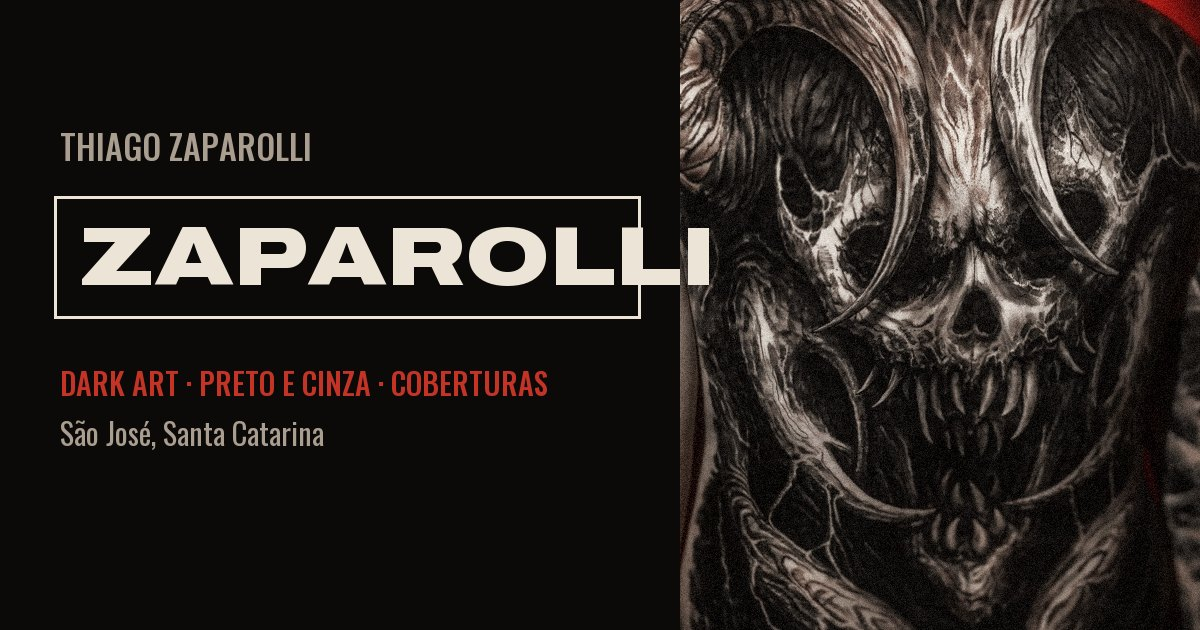
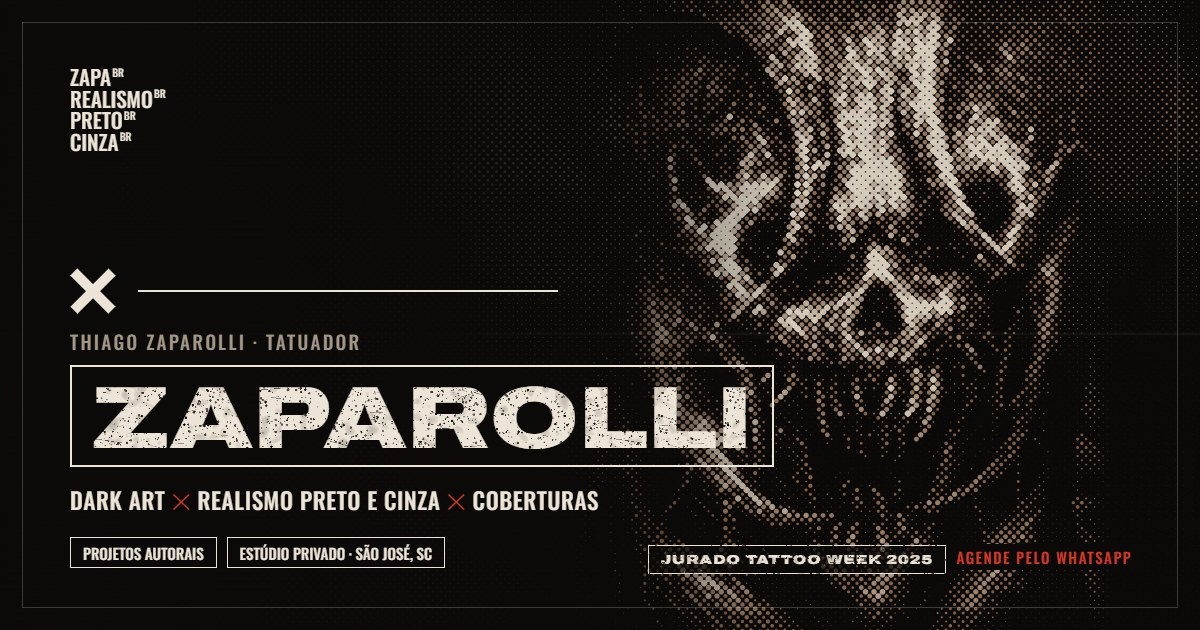
Prévia do link (og.jpg) premium com o meio-tom e a tipografia do site; metatags com URL absoluta

diff --git a/index.html b/index.html
@@ -10,9 +10,17 @@
 <meta property="og:type" content="website">
 <meta property="og:locale" content="pt_BR">
 <meta property="og:title" content="Zaparolli Tattoo · Dark art e realismo preto e cinza">
-<meta property="og:description" content="Projetos autorais, coberturas e fechamentos em estúdio privado em São José, SC. Orçamento pelo WhatsApp.">
-<meta property="og:image" content="og.jpg">
+<meta property="og:description" content="Jurado da Tattoo Week 2025. Dark art e realismo preto e cinza autorais, coberturas e fechamentos em estúdio privado em São José, SC. Agende pelo WhatsApp.">
+<meta property="og:image" content="https://azeugral.github.io/zaparolli-tattoo/og.jpg">
+<meta property="og:image:secure_url" content="https://azeugral.github.io/zaparolli-tattoo/og.jpg">
+<meta property="og:image:type" content="image/jpeg">
+<meta property="og:image:width" content="1200">
+<meta property="og:image:height" content="630">
+<meta property="og:image:alt" content="Zaparolli Tattoo: dark art, realismo preto e cinza e coberturas em São José, SC">
+<meta property="og:site_name" content="Zaparolli Tattoo">
+<meta property="og:url" content="https://azeugral.github.io/zaparolli-tattoo/">
 <meta name="twitter:card" content="summary_large_image">
+<meta name="twitter:image" content="https://azeugral.github.io/zaparolli-tattoo/og.jpg">
 <link rel="icon" href="favicon.ico" sizes="any">
 <link rel="icon" href="favicon-32.png" type="image/png">
 <link rel="apple-touch-icon" href="apple-touch-icon.png">

diff --git a/portfolio.html b/portfolio.html
@@ -10,8 +10,16 @@
 <meta property="og:type" content="website">
 <meta property="og:locale" content="pt_BR">
 <meta property="og:title" content="Portfólio · Zaparolli Tattoo">
-<meta property="og:image" content="og.jpg">
+<meta property="og:image" content="https://azeugral.github.io/zaparolli-tattoo/og.jpg">
+<meta property="og:image:secure_url" content="https://azeugral.github.io/zaparolli-tattoo/og.jpg">
+<meta property="og:image:type" content="image/jpeg">
+<meta property="og:image:width" content="1200">
+<meta property="og:image:height" content="630">
+<meta property="og:image:alt" content="Zaparolli Tattoo: dark art, realismo preto e cinza e coberturas em São José, SC">
+<meta property="og:site_name" content="Zaparolli Tattoo">
+<meta property="og:url" content="https://azeugral.github.io/zaparolli-tattoo/portfolio.html">
 <meta name="twitter:card" content="summary_large_image">
+<meta name="twitter:image" content="https://azeugral.github.io/zaparolli-tattoo/og.jpg">
 <link rel="icon" href="favicon.ico" sizes="any">
 <link rel="icon" href="favicon-32.png" type="image/png">
 <link rel="apple-touch-icon" href="apple-touch-icon.png">

diff --git a/tools/gerar_og.py b/tools/gerar_og.py
@@ -1,0 +1,87 @@
+"""Gera og.jpg (1200x630), a imagem que aparece quando o link é compartilhado.
+Monta uma página com o meio-tom do hero (assets/js/meio-tom.js) e a tipografia do site
+e fotografa com Playwright + Brave. Precisa de um servidor local na pasta do projeto:
+    python -m http.server 8811   (rodado em PROJETOS LRGZ/Zaparolli Tattoo)
+Uso: python tools/gerar_og.py"""
+import os
+from playwright.sync_api import sync_playwright
+
+AQUI = os.path.dirname(os.path.abspath(__file__))
+SITE = os.path.dirname(AQUI)
+BRAVE = r'C:\Program Files\BraveSoftware\Brave-Browser\Application\brave.exe'
+BASE = 'http://localhost:8811/site/'
+
+HTML = """<!doctype html><html><head><meta charset="utf-8">
+<base href="%s">
+<link rel="stylesheet" href="https://fonts.googleapis.com/css2?family=Archivo:wdth,wght@62..125,100..900&family=Oswald:wght@500&display=swap">
+<style>
+:root { --carvao:#0c0a09; --osso:#ece4d6; --cinza:#a39888; --sangue:#cf3a24; }
+* { box-sizing:border-box; margin:0; }
+body { width:1200px; height:630px; background:var(--carvao); overflow:hidden; position:relative; font-family:'Archivo'; }
+canvas { position:absolute; inset:0; width:1200px; height:630px; }
+.veu { position:absolute; inset:0; background:linear-gradient(90deg, rgba(12,10,9,.96) 0%%, rgba(12,10,9,.85) 38%%, rgba(12,10,9,0) 66%%); }
+.moldura { position:absolute; inset:22px; border:1px solid rgba(236,228,214,.22); }
+.conteudo { position:absolute; left:70px; top:66px; bottom:62px; width:700px; display:flex; flex-direction:column; }
+.pilha { font:500 21px/1.03 'Oswald'; text-transform:uppercase; color:var(--osso); }
+.pilha sup { font-size:.5em; margin-left:.12em; vertical-align:.9em; }
+.linha-x { display:flex; align-items:center; gap:22px; margin:auto 0 18px; }
+.xis { position:relative; width:46px; height:46px; }
+.xis::before,.xis::after { content:''; position:absolute; left:50%%; top:50%%; width:118%%; height:21%%; background:var(--osso); transform:translate(-50%%,-50%%) rotate(45deg); }
+.xis::after { transform:translate(-50%%,-50%%) rotate(-45deg); }
+.fio { height:2px; width:420px; background:var(--osso); }
+.sobre { font:500 19px/1 'Oswald'; letter-spacing:.12em; text-transform:uppercase; color:var(--cinza); margin-bottom:14px; }
+.caixa { position:relative; display:inline-block; align-self:flex-start; padding:10px 22px 4px; font-stretch:125%%; font-weight:900; font-size:88px; line-height:1; text-transform:uppercase; color:var(--osso); }
+.caixa::before { content:''; position:absolute; inset:0; border:2.5px solid var(--osso); }
+.desgaste { -webkit-mask-image:url(assets/img/desgaste.png); mask-image:url(assets/img/desgaste.png); -webkit-mask-size:520px auto; mask-size:520px auto; }
+.lema { margin-top:20px; font:500 23px/1.2 'Oswald'; letter-spacing:.03em; text-transform:uppercase; color:var(--osso); }
+.lema b { color:var(--sangue); font-weight:500; }
+.tags { display:flex; gap:10px; margin-top:22px; }
+.tags span { border:1.5px solid var(--osso); padding:7px 12px 6px; font:500 15px/1.1 'Oswald'; text-transform:uppercase; color:var(--osso); background:rgba(12,10,9,.5); }
+.selo { position:absolute; right:58px; bottom:56px; text-align:right; }
+.selo .t { display:inline-block; border:1.5px solid var(--osso); padding:7px 12px 6px; font-stretch:125%%; font-weight:900; font-size:13px; letter-spacing:.09em; text-transform:uppercase; color:var(--osso); background:rgba(12,10,9,.7); }
+.selo .s { display:inline-block; margin-top:8px; padding:6px 10px 5px; background:var(--carvao); font:500 15px/1 'Oswald'; letter-spacing:.1em; text-transform:uppercase; color:var(--sangue); }
+</style></head><body>
+<canvas id="c" width="2400" height="1260"></canvas>
+<div class="veu"></div>
+<div class="moldura"></div>
+<div class="conteudo">
+  <div class="pilha">Zapa<sup>BR</sup><br>Realismo<sup>BR</sup><br>Preto<sup>BR</sup><br>Cinza<sup>BR</sup></div>
+  <div class="linha-x"><span class="xis"></span><span class="fio"></span></div>
+  <div class="sobre">Thiago Zaparolli · Tatuador</div>
+  <div class="caixa"><span class="desgaste">Zaparolli</span></div>
+  <div class="lema">Dark art <b>✕</b> Realismo preto e cinza <b>✕</b> Coberturas</div>
+  <div class="tags"><span>Projetos autorais</span><span>Estúdio privado · São José, SC</span></div>
+</div>
+<div class="selo"><div class="t desgaste">Jurado Tattoo Week 2025</div><div class="s">Agende pelo WhatsApp</div></div>
+<script src="assets/js/meio-tom.js"></script>
+<script>
+const im = new Image();
+im.onload = () => { const t = meioTomGL(document.getElementById('c'), im, {preserveDrawingBuffer:true}); t.desenhar(1.1, .45, 12); document.fonts.ready.then(() => { document.title = 'pronto'; }); };
+im.src = 'assets/img/meio-tom-fonte.jpg';
+</script></body></html>""" % BASE
+
+
+def main():
+    pagina = os.path.join(SITE, '_og.html')
+    with open(pagina, 'w', encoding='utf-8') as f:
+        f.write(HTML)
+    try:
+        with sync_playwright() as p:
+            b = p.chromium.launch(executable_path=BRAVE, args=['--use-angle=swiftshader', '--enable-unsafe-swiftshader'])
+            pg = b.new_page(viewport={'width': 1200, 'height': 630}, device_scale_factor=1)
+            pg.goto(BASE + '_og.html')
+            pg.wait_for_function("document.title === 'pronto'", timeout=20000)
+            pg.wait_for_timeout(600)
+            png = os.path.join(SITE, '_og.png')
+            pg.screenshot(path=png)
+            b.close()
+        from PIL import Image
+        Image.open(png).convert('RGB').save(os.path.join(SITE, 'og.jpg'), quality=88, optimize=True, progressive=True)
+        os.remove(png)
+    finally:
+        os.remove(pagina)
+    print('og.jpg', round(os.path.getsize(os.path.join(SITE, 'og.jpg')) / 1024), 'KB')
+
+
+if __name__ == '__main__':
+    main()

diff --git a/README.md b/README.md
@@ -21,6 +21,8 @@ Só o Instagram dele (extraído em 22/10/2026): bio, 674 legendas, fotos e os de
 - `tools/processar.py` gera `assets/obras`, `assets/js/obras.js`, `assets/img`, a textura `desgaste.png`, favicons e `og.jpg` a partir de `../_ref/ig` (fora do repositório). Para trocar o portfólio, edite `PORTFOLIO` e rode `python tools/processar.py`.
 - `tools/gerar_video.py` renderiza os MP4 do celular e o pôster a partir de `meio-tom.js` (Playwright + Brave + ffmpeg do imageio-ffmpeg). Rodar de novo se mexer no shader.
 
+- `tools/gerar_og.py` gera o `og.jpg` (prévia do link no WhatsApp/Instagram) com o meio-tom do hero e a tipografia do site; precisa do servidor local `python -m http.server 8811` na pasta do projeto. As metatags usam a URL absoluta do Pages: trocar ao mudar de domínio.
+
 ## CONFIRMAR antes do domínio
 
 1. **Estúdio**: o texto (prédio comercial com vista para o mar, um cliente por dia, alvará sanitário) vem de um post de março/2022. Continua igual? O site não mostra endereço, só "privado, em São José; o endereço vai junto com o agendamento".
